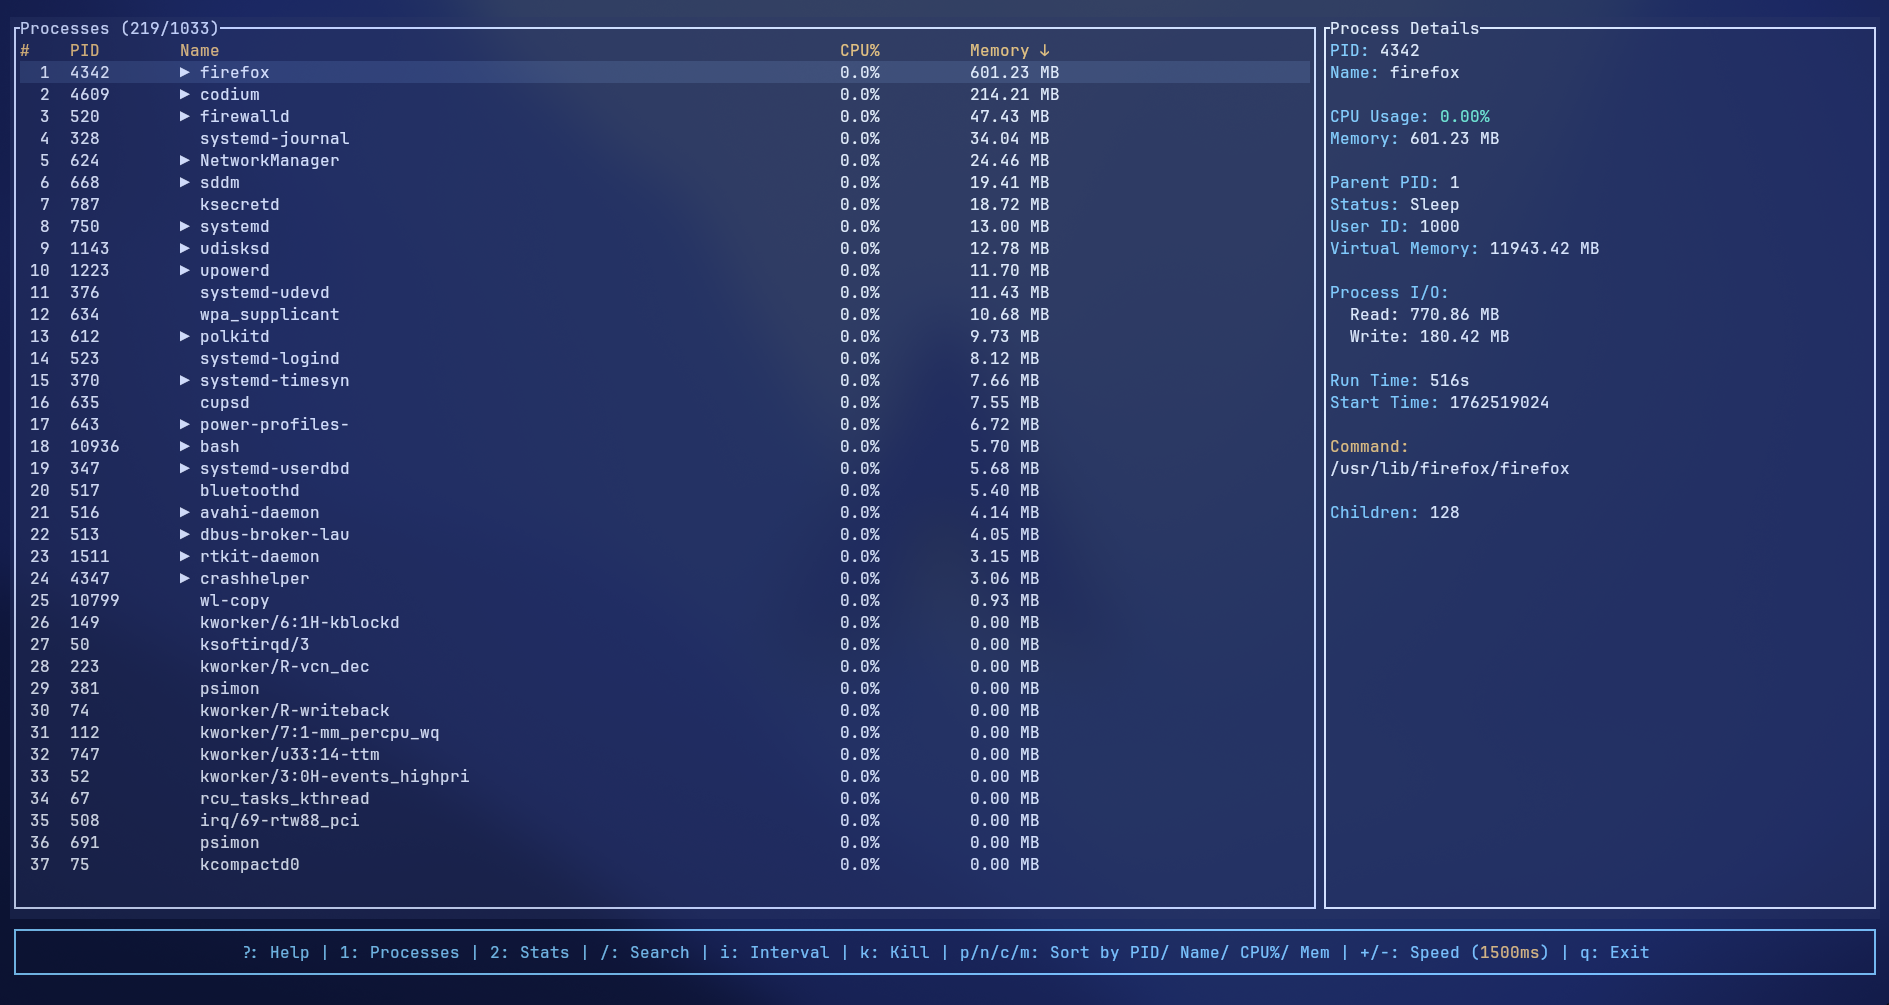
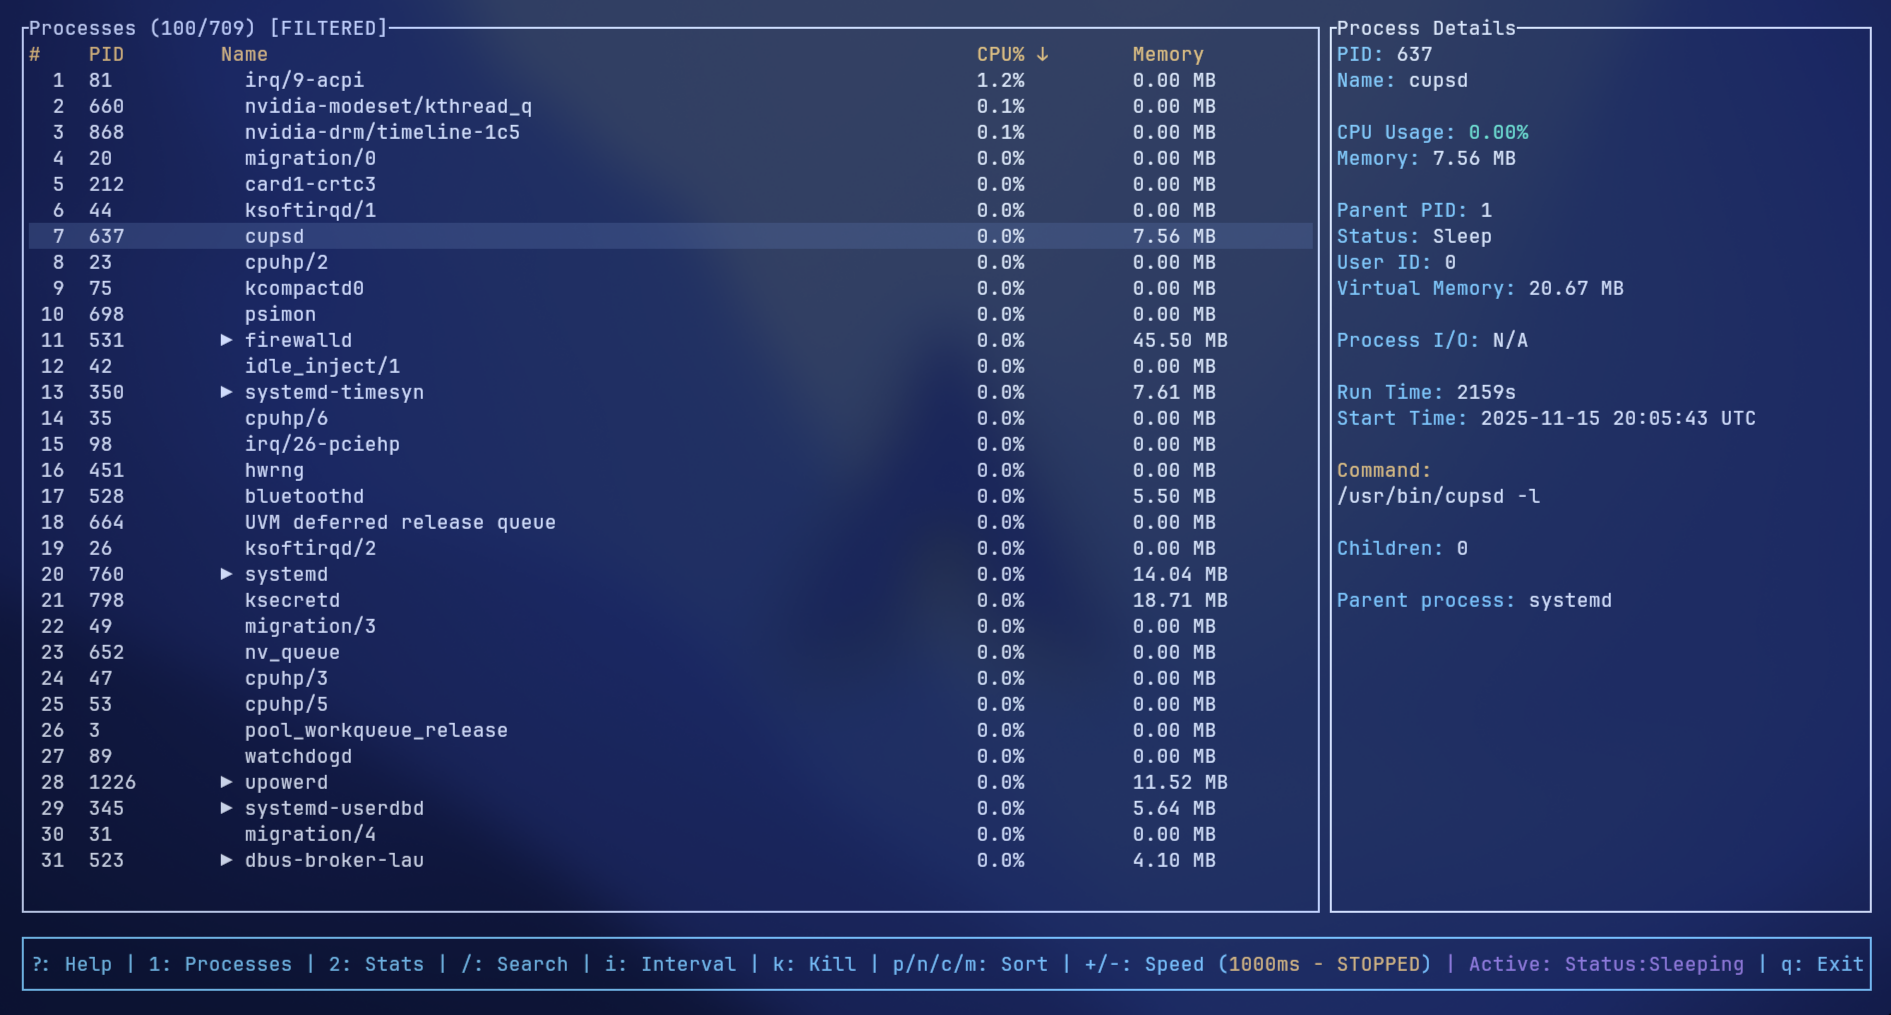
Fixed background in processes.rs and CPU% in stats.rs and updated README images

diff --git a/src/gui/processes.rs b/src/gui/processes.rs
@@ -91,7 +91,7 @@ pub fn draw_processes(f: &mut Frame, app: &mut App, area: Rect) {
                     .fg(Color::White)
                     .add_modifier(Modifier::BOLD)
             } else {
-                Style::default().bg(Color::Black).fg(Color::White)
+                Style::default().fg(Color::White)
             };
 
             let line_num = format!(
@@ -126,8 +126,7 @@ pub fn draw_processes(f: &mut Frame, app: &mut App, area: Rect) {
     .style(
         Style::default()
             .fg(Color::Yellow)
-            .add_modifier(Modifier::BOLD)
-            .bg(Color::Black),
+            .add_modifier(Modifier::BOLD),
     );
 
     let title = if app.user_filter.is_some()
@@ -163,9 +162,9 @@ pub fn draw_processes(f: &mut Frame, app: &mut App, area: Rect) {
         Block::default()
             .borders(Borders::ALL)
             .title(title)
-            .style(Style::default().bg(Color::Black)),
+            .style(Style::default()),
     )
-    .style(Style::default().bg(Color::Black));
+    .style(Style::default());
 
     app.header_area = Rect {
         x: chunks[0].x,
@@ -364,9 +363,9 @@ fn draw_detail_panel(f: &mut Frame, app: &App, area: Rect) {
             Block::default()
                 .borders(Borders::ALL)
                 .title("Process Details")
-                .style(Style::default().fg(Color::White).bg(Color::Black)),
+                .style(Style::default().fg(Color::White)),
         )
-        .style(Style::default().fg(Color::White).bg(Color::Black));
+        .style(Style::default().fg(Color::White));
 
     f.render_widget(paragraph, area);
 }

diff --git a/src/gui/stats.rs b/src/gui/stats.rs
@@ -46,7 +46,7 @@ fn draw_cpu_section(f: &mut Frame, app: &App, area: Rect) {
                 .borders(Borders::ALL)
                 .title("CPU Usage (Overall)"),
         )
-        .gauge_style(Style::default().fg(Color::Cyan).bg(Color::Black))
+        .gauge_style(Style::default().fg(Color::Cyan))
         .percent(avg_cpu as u16);
 
     let cpu_chunks = Layout::default()
